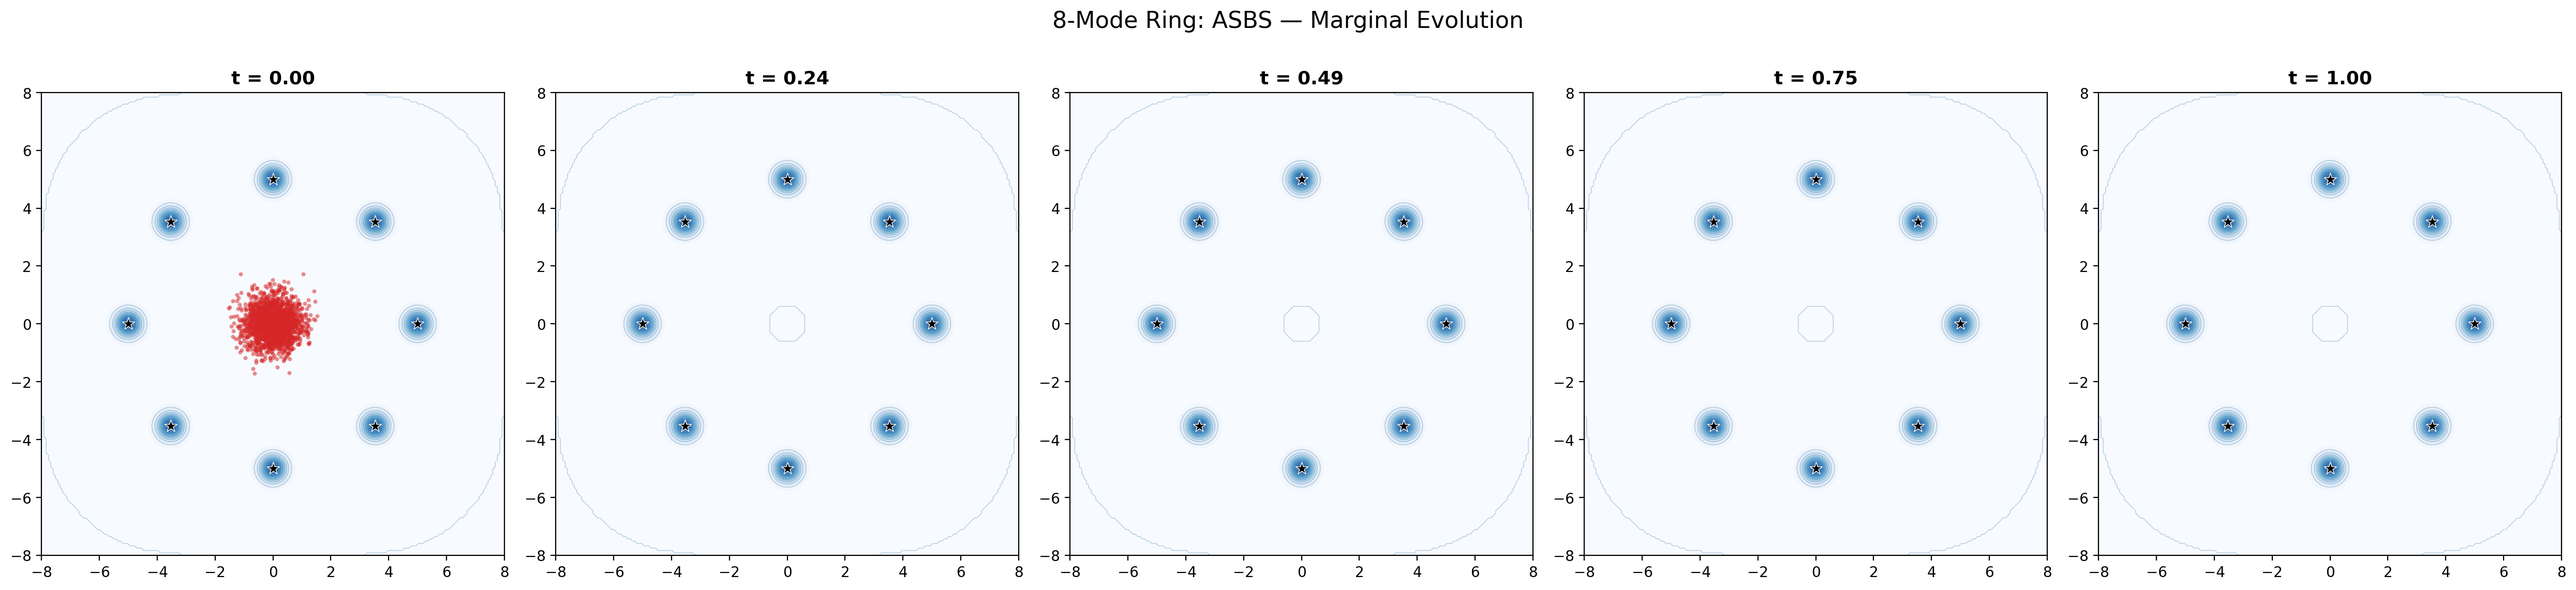
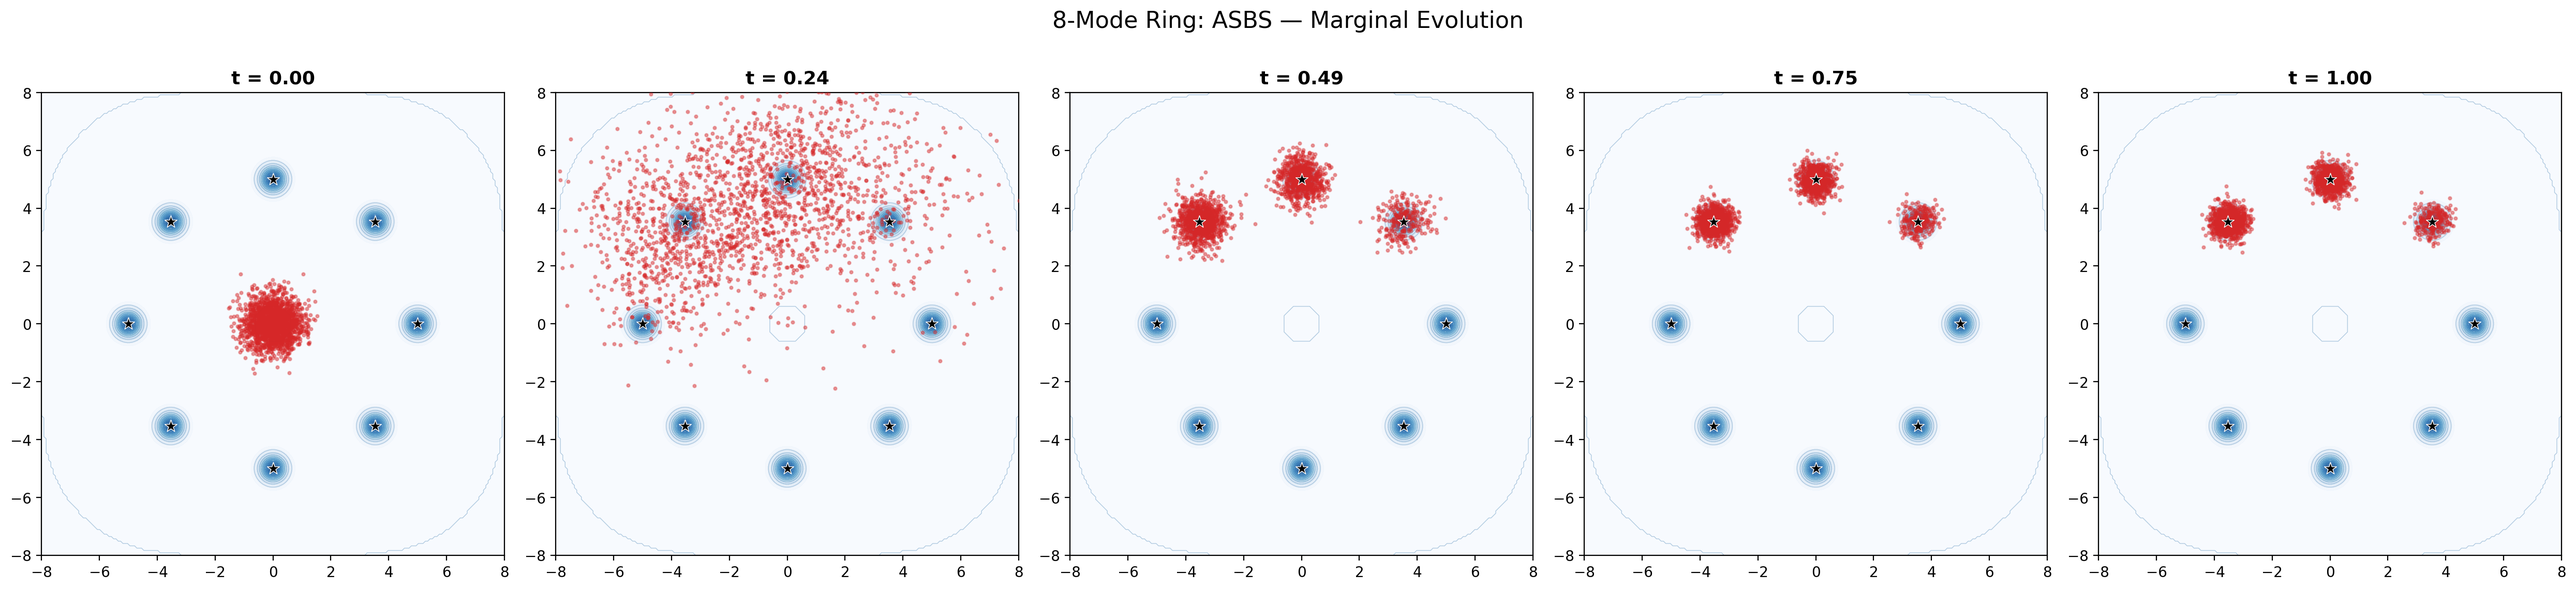
Fix ring8 baseline eval: use pre-NaN checkpoint (ep1800)
ring8_asbs diverged at ep1895. Now using checkpoint_1800.pt
which gives 3/8 modes covered with clean metrics.

diff --git a/scripts/eval_2d_all.py b/scripts/eval_2d_all.py
@@ -27,12 +27,15 @@ import adjoint_samplers.utils.train_utils as train_utils
 # Loading
 # ====================================================================
 
-def load_model(exp_dir, device):
+def load_model(exp_dir, device, ckpt_override=None):
     exp_dir = Path(exp_dir)
     cfg_path = exp_dir / '.hydra' / 'config.yaml'
     if not cfg_path.exists():
         cfg_path = exp_dir / 'config.yaml'
-    ckpt_path = exp_dir / 'checkpoints' / 'checkpoint_latest.pt'
+    if ckpt_override:
+        ckpt_path = Path(ckpt_override)
+    else:
+        ckpt_path = exp_dir / 'checkpoints' / 'checkpoint_latest.pt'
     if not ckpt_path.exists():
         raise FileNotFoundError(f"No checkpoint at {ckpt_path}")
 
@@ -261,6 +264,7 @@ BENCHMARKS = {
         'name': '8-Mode Ring',
         'xlim': (-8, 8), 'ylim': (-8, 8),
         'baseline': RESULTS_DIR / 'ring8_asbs' / 'seed_0',
+        'baseline_ckpt': str(RESULTS_DIR / 'ring8_asbs' / 'seed_0' / 'checkpoints' / 'checkpoint_1800.pt'),
         'ksd': RESULTS_DIR / 'ring8_ksd_nowarmup' / 'seed_0',
         'ksd_lambda': 0.1,
     },
@@ -273,8 +277,9 @@ def evaluate_benchmark(bench_key, bench_cfg, device, n_samples=2000):
     print(f"{'='*60}")
 
     # Load models
-    print("  Loading baseline ASBS...")
-    sde_base, src_base, energy, ts_base = load_model(bench_cfg['baseline'], device)
+    baseline_ckpt = bench_cfg.get('baseline_ckpt', None)
+    print(f"  Loading baseline ASBS...{f' (ckpt: {Path(baseline_ckpt).name})' if baseline_ckpt else ''}")
+    sde_base, src_base, energy, ts_base = load_model(bench_cfg['baseline'], device, ckpt_override=baseline_ckpt)
     print("  Loading KSD-ASBS...")
     sde_ksd, src_ksd, _, ts_ksd = load_model(bench_cfg['ksd'], device)
 

diff --git a/evaluation/2d_result.md b/evaluation/2d_result.md
@@ -1,6 +1,6 @@
 # 2D Visualization Benchmark Results
 
-Generated: 2026-04-07 06:02:13 KST
+Generated: 2026-04-07 06:04:38 KST
 
 ---
 
@@ -31,10 +31,10 @@ Generated: 2026-04-07 06:02:13 KST
 
 | Metric | ASBS (Baseline) | KSD-ASBS (lambda=0.1) |
 |---|---|---|
-| Modes covered (of 8) | 1 | 5 |
-| Mean energy | nan | 985601.2500 |
-| Std energy | nan | 8266519.0000 |
-| Per-mode counts | [2000, 0, 0, 0, 0, 0, 0, 0] | [1, 0, 0, 0, 1628, 15, 106, 3] |
+| Modes covered (of 8) | 3 | 5 |
+| Mean energy | 1.0048 | 985601.2500 |
+| Std energy | 1.0101 | 8266519.0000 |
+| Per-mode counts | [0, 263, 732, 982, 0, 0, 0, 0] | [1, 0, 0, 0, 1628, 15, 106, 3] |
 
 ### Terminal Distribution
 
